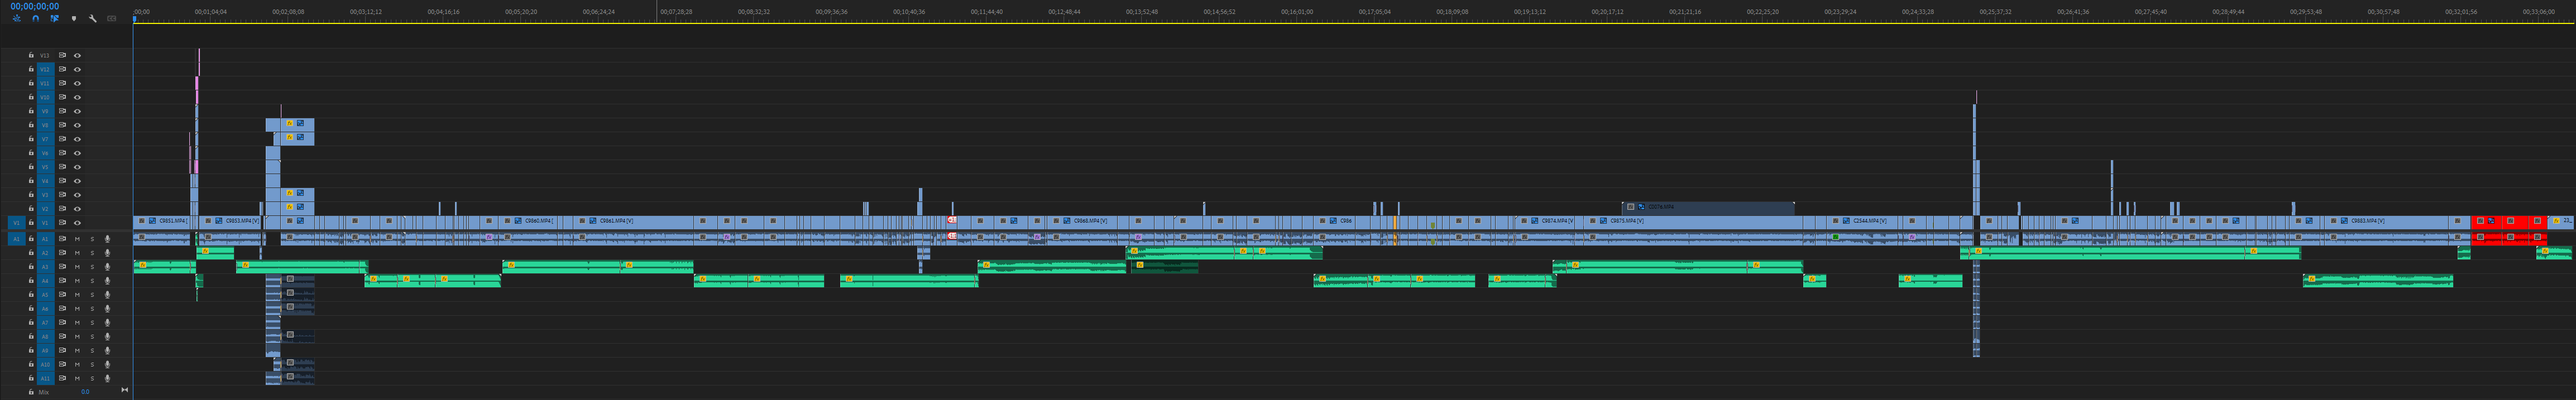
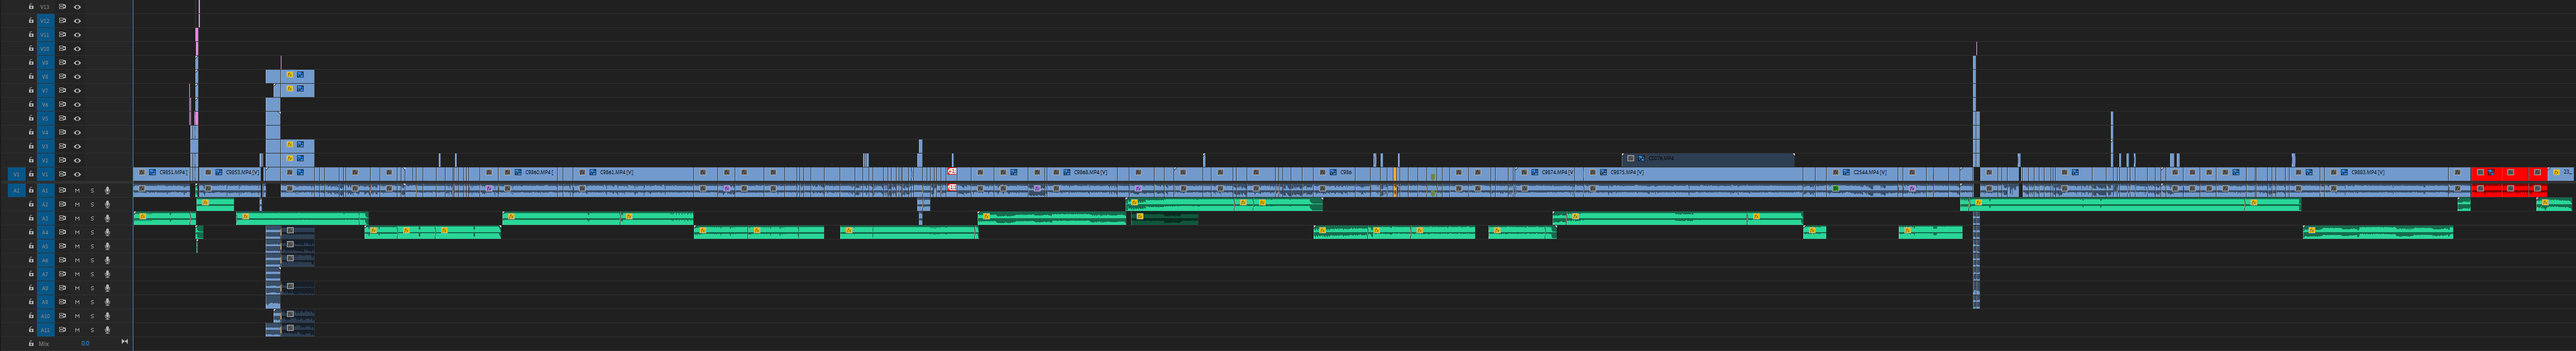
crop both timelines to an aligned band so the wipe overlays exactly

diff --git a/styles.css b/styles.css
@@ -636,12 +636,18 @@ body {
   padding-inline: var(--pad);
 }
 
+/* Both timelines are cropped to exactly 4614x629, aligned on the V1/A1 track
+   boundary, so matching the frame to that ratio means object-fit: contain
+   lands them pixel on pixel: no letterboxing, no drift between the two. */
 .stage-frame {
   position: relative;
   width: 100%;
-  aspect-ratio: 5.4;  /* between the two source ratios, 4.47 and 6.44 */
+  aspect-ratio: 4614 / 629;
   background: var(--panel);
-  border: 1px solid var(--line);
+  /* An inset outline, not a border: on a strip this wide a 1px border costs
+     2px of height, which contain repays as ~16px of letterboxing either side. */
+  outline: 1px solid var(--line);
+  outline-offset: -1px;
   border-radius: 6px;
   overflow: hidden;
 }
@@ -695,7 +701,7 @@ body {
   border-image: linear-gradient(var(--brand-a), var(--brand-b)) 1;
 }
 
-/* A 5.4:1 strip is only ~60px tall on a phone, which makes the timeline
+/* A 7.3:1 strip is only ~45px tall on a phone, which makes the timeline
    unreadable. Go taller and crop from the left instead of shrinking: you
    lose the tail of the sequence but you can actually see the cuts. */
 @media (max-width: 760px) {
